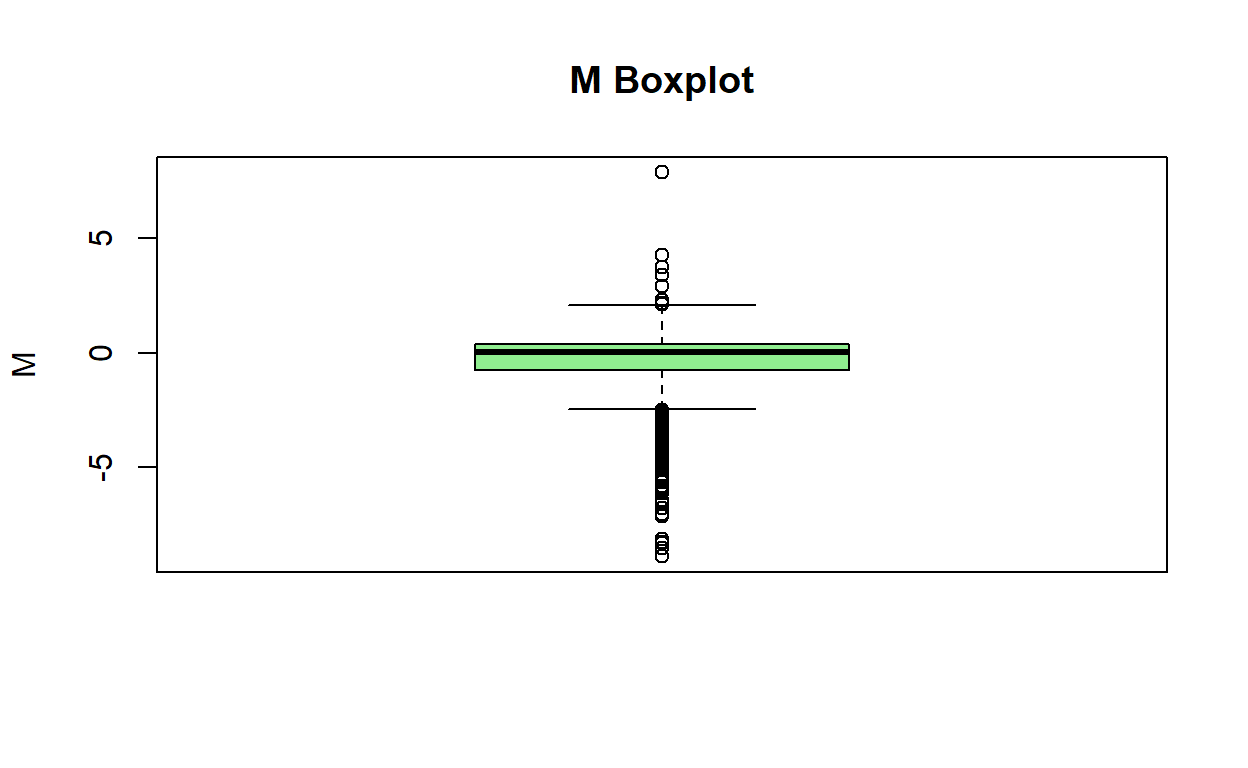
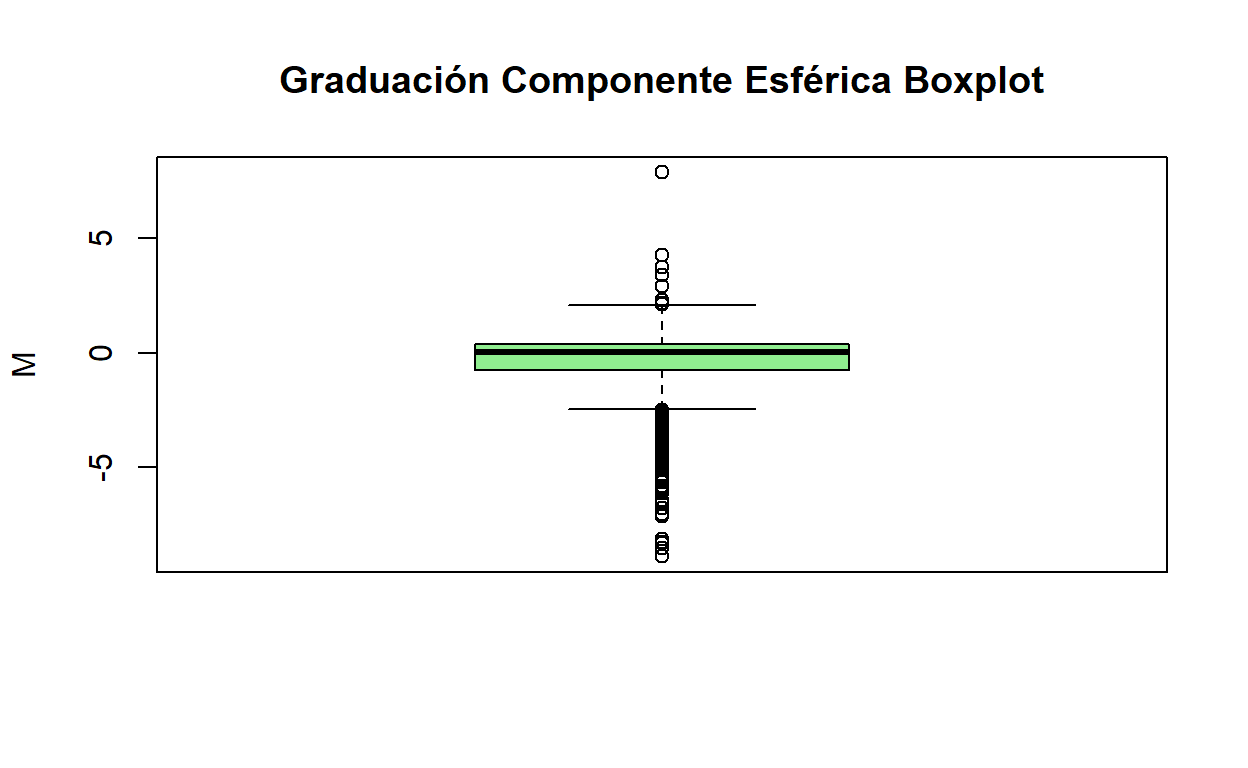
entrega2

Changed region(s): [[0.2188, 0.0625, 0.8438, 0.125]]

diff --git a/_posts/2022-10-07-entrega-ii-preparacion-de-los-datos/entrega-ii-preparacion-de-los-datos.html b/_posts/2022-10-07-entrega-ii-preparacion-de-los-datos/entrega-ii-preparacion-de-los-datos.html
@@ -1526,7 +1526,7 @@ class="uri">https://example.com/spacelysprokets</a>
 <span><span class='va'>data</span> <span class='op'>&lt;-</span> <span class='fu'><a href='https://rdrr.io/r/base/data.frame.html'>data.frame</a></span><span class='op'>(</span><span class='va'>data</span><span class='op'>)</span></span>
 <span><span class='fu'><a href='https://rdrr.io/r/utils/str.html'>str</a></span><span class='op'>(</span><span class='va'>data</span><span class='op'>)</span></span></code></pre>
 </div>
-<pre><code>&#39;data.frame&#39;:   1150 obs. of  18 variables:
+<pre><code>&#39;data.frame&#39;:   1150 obs. of  17 variables:
  $ id           : num  1 2 3 4 5 6 7 8 9 10 ...
  $ clase        : chr  &quot;7ºC&quot; &quot;7ºC&quot; &quot;7ºC&quot; &quot;7ºC&quot; ...
  $ nombre       : chr  &quot;João Pedro&quot; &quot;Francisco F.&quot; &quot;Francisco S.&quot; &quot;José Pereira&quot; ...
@@ -1541,10 +1541,9 @@ class="uri">https://example.com/spacelysprokets</a>
  $ cil          : num  -0.24 -0.42 -0.83 -0.75 -0.17 -0.08 -0.92 -0.58 -0.49 -0.1 ...
  $ eje          : chr  &quot;151.35&quot; &quot;20.8&quot; &quot;167.9&quot; &quot;63.67&quot; ...
  $ orient_astigm: chr  &quot;2&quot; &quot;2&quot; &quot;1&quot; &quot;2&quot; ...
- $ esfera       : num  1 1 2 1 1 2 2 1 1 1 ...
  $ CA           : num  24.5 22.4 23.2 22.9 23.2 ...
  $ RC           : num  8.21 7.52 8.06 7.72 7.97 7.58 7.93 7.41 8.22 7.42 ...
- $ CA_RC_1      : num  2.99 2.99 2.88 2.96 2.92 ...</code></pre>
+ $ CA_RC        : num  2.99 2.99 2.88 2.96 2.92 ...</code></pre>
 </div>
 <h2 id="características-de-las-variables">Características de las
 variables</h2>
@@ -1554,7 +1553,7 @@ variables</h2>
 <span><span class='va'>data</span><span class='op'>$</span><span class='va'>orient_astigm</span><span class='op'>=</span><span class='fu'><a href='https://rdrr.io/r/base/numeric.html'>as.numeric</a></span><span class='op'>(</span><span class='va'>data</span><span class='op'>$</span><span class='va'>orient_astigm</span><span class='op'>)</span></span>
 <span><span class='fu'><a href='https://rdrr.io/r/utils/str.html'>str</a></span><span class='op'>(</span><span class='va'>data</span><span class='op'>)</span></span></code></pre>
 </div>
-<pre><code>&#39;data.frame&#39;:   1150 obs. of  18 variables:
+<pre><code>&#39;data.frame&#39;:   1150 obs. of  17 variables:
  $ id           : num  1 2 3 4 5 6 7 8 9 10 ...
  $ clase        : chr  &quot;7ºC&quot; &quot;7ºC&quot; &quot;7ºC&quot; &quot;7ºC&quot; ...
  $ nombre       : chr  &quot;João Pedro&quot; &quot;Francisco F.&quot; &quot;Francisco S.&quot; &quot;José Pereira&quot; ...
@@ -1569,10 +1568,9 @@ variables</h2>
  $ cil          : num  -0.24 -0.42 -0.83 -0.75 -0.17 -0.08 -0.92 -0.58 -0.49 -0.1 ...
  $ eje          : num  151.3 20.8 167.9 63.7 154.5 ...
  $ orient_astigm: num  2 2 1 2 2 2 1 1 2 1 ...
- $ esfera       : num  1 1 2 1 1 2 2 1 1 1 ...
  $ CA           : num  24.5 22.4 23.2 22.9 23.2 ...
  $ RC           : num  8.21 7.52 8.06 7.72 7.97 7.58 7.93 7.41 8.22 7.42 ...
- $ CA_RC_1      : num  2.99 2.99 2.88 2.96 2.92 ...</code></pre>
+ $ CA_RC        : num  2.99 2.99 2.88 2.96 2.92 ...</code></pre>
 <div class="sourceCode">
 <pre class="sourceCode r"><code class="sourceCode r"><span><span class='fu'><a href='https://rdrr.io/r/base/summary.html'>summary</a></span><span class='op'>(</span><span class='va'>data</span><span class='op'>)</span></span></code></pre>
 </div>
@@ -1587,10 +1585,10 @@ variables</h2>
       sexo          ametropia            edad        grupo_etario  
  Min.   :0.0000   Min.   :-1.0000   Min.   : 5.00   Min.   :1.000  
  1st Qu.:0.0000   1st Qu.:-1.0000   1st Qu.:13.00   1st Qu.:2.000  
- Median :1.0000   Median : 0.0000   Median :18.07   Median :3.000  
- Mean   :0.5183   Mean   :-0.1148   Mean   :16.33   Mean   :2.505  
- 3rd Qu.:1.0000   3rd Qu.: 0.0000   3rd Qu.:18.57   3rd Qu.:3.000  
- Max.   :1.0000   Max.   : 1.0000   Max.   :38.09   Max.   :3.000  
+ Median :1.0000   Median : 0.0000   Median :18.00   Median :3.000  
+ Mean   :0.5183   Mean   :-0.1148   Mean   :16.33   Mean   :2.506  
+ 3rd Qu.:1.0000   3rd Qu.: 0.0000   3rd Qu.:19.00   3rd Qu.:3.000  
+ Max.   :1.0000   Max.   : 1.0000   Max.   :38.00   Max.   :3.000  
                                                                    
        M                 J0                J45           
  Min.   :-8.8750   Min.   :-0.82983   Min.   :-2.054075  
@@ -1608,14 +1606,14 @@ variables</h2>
  3rd Qu.: 0.600   3rd Qu.:-0.2500   3rd Qu.:156.00   3rd Qu.:2.000  
  Max.   : 8.610   Max.   : 0.0000   Max.   :180.00   Max.   :3.000  
                   NA&#39;s   :4         NA&#39;s   :10       NA&#39;s   :3      
-     esfera            CA              RC           CA_RC_1     
- Min.   :1.000   Min.   :20.15   Min.   :6.925   Min.   :2.590  
- 1st Qu.:1.000   1st Qu.:22.88   1st Qu.:7.595   1st Qu.:2.957  
- Median :1.000   Median :23.52   Median :7.785   Median :3.014  
- Mean   :1.286   Mean   :23.63   Mean   :7.799   Mean   :3.031  
- 3rd Qu.:2.000   3rd Qu.:24.23   3rd Qu.:7.971   3rd Qu.:3.081  
- Max.   :2.000   Max.   :27.70   Max.   :9.240   Max.   :3.558  
-                                                                </code></pre>
+       CA              RC            CA_RC      
+ Min.   :20.15   Min.   :6.925   Min.   :2.590  
+ 1st Qu.:22.88   1st Qu.:7.595   1st Qu.:2.957  
+ Median :23.52   Median :7.785   Median :3.014  
+ Mean   :23.63   Mean   :7.799   Mean   :3.031  
+ 3rd Qu.:24.23   3rd Qu.:7.971   3rd Qu.:3.081  
+ Max.   :27.70   Max.   :9.240   Max.   :3.558  
+                                                </code></pre>
 <div class="sourceCode">
 <pre class="sourceCode r"><code class="sourceCode r"><span><span class='co'>##numerical variables with missing values: J0, J45, cil, eje, orient_astigm</span></span></code></pre>
 </div>
@@ -1633,20 +1631,19 @@ variables</h2>
 <pre class="sourceCode r"><code class="sourceCode r"><span><span class='fu'><a href='https://rdrr.io/r/grDevices/boxplot.stats.html'>boxplot.stats</a></span><span class='op'>(</span><span class='va'>data</span><span class='op'>$</span><span class='va'>edad</span><span class='op'>)</span></span></code></pre>
 </div>
 <pre><code>$stats
-[1]  5.00000 13.00000 18.07255 18.57358 26.46954
+[1]  5 13 18 19 28
 
 $n
 [1] 1150
 
 $conf
-[1] 17.81287 18.33224
+[1] 17.72045 18.27955
 
 $out
- [1] 27.35661 28.88433 30.54620 31.23888 33.48392 28.19165 36.49555
- [8] 33.36893 36.35044 34.38193 38.08898 26.99247</code></pre>
+[1] 29 31 31 33 36 33 36 34 38</code></pre>
 <div class="sourceCode">
 <pre class="sourceCode r"><code class="sourceCode r"><span><span class='co'>##Variable M</span></span>
-<span><span class='fu'><a href='https://rdrr.io/r/graphics/boxplot.html'>boxplot</a></span><span class='op'>(</span><span class='va'>data</span><span class='op'>$</span><span class='va'>M</span>, col<span class='op'>=</span><span class='st'>"lightgreen"</span>, main<span class='op'>=</span><span class='st'>"M Boxplot"</span>,</span>
+<span><span class='fu'><a href='https://rdrr.io/r/graphics/boxplot.html'>boxplot</a></span><span class='op'>(</span><span class='va'>data</span><span class='op'>$</span><span class='va'>M</span>, col<span class='op'>=</span><span class='st'>"lightgreen"</span>, main<span class='op'>=</span><span class='st'>"Graduación Componente Esférica Boxplot"</span>,</span>
 <span>        ylab<span class='op'>=</span><span class='st'>"M"</span><span class='op'>)</span></span></code></pre>
 </div>
 <img src="entrega-ii-preparacion-de-los-datos_files/figure-html5/unnamed-chunk-3-2.png" width="624" />
@@ -1689,7 +1686,7 @@ $out
 [139] -3.775000 -3.795000 -2.870000 -2.980000 -3.630000 -2.565000</code></pre>
 <div class="sourceCode">
 <pre class="sourceCode r"><code class="sourceCode r"><span><span class='co'>##Variable J0</span></span>
-<span><span class='fu'><a href='https://rdrr.io/r/graphics/boxplot.html'>boxplot</a></span><span class='op'>(</span><span class='va'>data</span><span class='op'>$</span><span class='va'>J0</span>, col<span class='op'>=</span><span class='st'>"lightpink"</span>, main<span class='op'>=</span><span class='st'>"J0 Boxplot"</span>,</span>
+<span><span class='fu'><a href='https://rdrr.io/r/graphics/boxplot.html'>boxplot</a></span><span class='op'>(</span><span class='va'>data</span><span class='op'>$</span><span class='va'>J0</span>, col<span class='op'>=</span><span class='st'>"lightpink"</span>, main<span class='op'>=</span><span class='st'>"Componente Vectorial Horizontal Boxplot"</span>,</span>
 <span>        ylab<span class='op'>=</span><span class='st'>"J0"</span><span class='op'>)</span></span></code></pre>
 </div>
 <img src="entrega-ii-preparacion-de-los-datos_files/figure-html5/unnamed-chunk-3-3.png" width="624" />
@@ -1721,7 +1718,7 @@ $out
 [73] -0.5168309  0.6799775  0.6830835  0.6745888</code></pre>
 <div class="sourceCode">
 <pre class="sourceCode r"><code class="sourceCode r"><span><span class='co'>##Variable J45</span></span>
-<span><span class='fu'><a href='https://rdrr.io/r/graphics/boxplot.html'>boxplot</a></span><span class='op'>(</span><span class='va'>data</span><span class='op'>$</span><span class='va'>J45</span>, col<span class='op'>=</span><span class='st'>"violet"</span>, main<span class='op'>=</span><span class='st'>"J45 Boxplot"</span>,</span>
+<span><span class='fu'><a href='https://rdrr.io/r/graphics/boxplot.html'>boxplot</a></span><span class='op'>(</span><span class='va'>data</span><span class='op'>$</span><span class='va'>J45</span>, col<span class='op'>=</span><span class='st'>"violet"</span>, main<span class='op'>=</span><span class='st'>"Componente Vectorial Oblicuo Boxplot"</span>,</span>
 <span>        ylab<span class='op'>=</span><span class='st'>"J45"</span><span class='op'>)</span></span></code></pre>
 </div>
 <img src="entrega-ii-preparacion-de-los-datos_files/figure-html5/unnamed-chunk-3-4.png" width="624" />
@@ -1851,7 +1848,7 @@ $out
 numeric(0)</code></pre>
 <div class="sourceCode">
 <pre class="sourceCode r"><code class="sourceCode r"><span><span class='co'>##Variable CA</span></span>
-<span><span class='fu'><a href='https://rdrr.io/r/graphics/boxplot.html'>boxplot</a></span><span class='op'>(</span><span class='va'>data</span><span class='op'>$</span><span class='va'>CA</span>, col<span class='op'>=</span><span class='st'>"#CBF4A9"</span>, main<span class='op'>=</span><span class='st'>"Longitud del Ojo Boxplot"</span>,</span>
+<span><span class='fu'><a href='https://rdrr.io/r/graphics/boxplot.html'>boxplot</a></span><span class='op'>(</span><span class='va'>data</span><span class='op'>$</span><span class='va'>CA</span>, col<span class='op'>=</span><span class='st'>"#CBF4A9"</span>, main<span class='op'>=</span><span class='st'>"Longitud Axial del Ojo Boxplot"</span>,</span>
 <span>        ylab<span class='op'>=</span><span class='st'>"CA"</span><span class='op'>)</span></span></code></pre>
 </div>
 <img src="entrega-ii-preparacion-de-los-datos_files/figure-html5/unnamed-chunk-3-8.png" width="624" />
@@ -1893,13 +1890,13 @@ $out
  [1] 9.235 8.575 8.840 8.645 8.585 8.600 8.550 8.680 8.630 8.620 8.785
 [12] 9.240 6.925 8.680 9.155</code></pre>
 <div class="sourceCode">
-<pre class="sourceCode r"><code class="sourceCode r"><span><span class='co'>##Variable CA_RC_1</span></span>
-<span><span class='fu'><a href='https://rdrr.io/r/graphics/boxplot.html'>boxplot</a></span><span class='op'>(</span><span class='va'>data</span><span class='op'>$</span><span class='va'>CA_RC_1</span>, col<span class='op'>=</span><span class='st'>"#F6B7B7"</span>, main<span class='op'>=</span><span class='st'>"CA_RC_1 Boxplot"</span>,</span>
-<span>        ylab<span class='op'>=</span><span class='st'>"CA_RC_1"</span><span class='op'>)</span></span></code></pre>
+<pre class="sourceCode r"><code class="sourceCode r"><span><span class='co'>##Variable CA_RC</span></span>
+<span><span class='fu'><a href='https://rdrr.io/r/graphics/boxplot.html'>boxplot</a></span><span class='op'>(</span><span class='va'>data</span><span class='op'>$</span><span class='va'>CA_RC</span>, col<span class='op'>=</span><span class='st'>"#F6B7B7"</span>, main<span class='op'>=</span><span class='st'>"Predictor Defecto Refractivo Boxplot"</span>,</span>
+<span>        ylab<span class='op'>=</span><span class='st'>"CA_RC"</span><span class='op'>)</span></span></code></pre>
 </div>
 <img src="entrega-ii-preparacion-de-los-datos_files/figure-html5/unnamed-chunk-3-10.png" width="624" />
 <div class="sourceCode">
-<pre class="sourceCode r"><code class="sourceCode r"><span><span class='fu'><a href='https://rdrr.io/r/grDevices/boxplot.stats.html'>boxplot.stats</a></span><span class='op'>(</span><span class='va'>data</span><span class='op'>$</span><span class='va'>CA_RC_1</span><span class='op'>)</span></span></code></pre>
+<pre class="sourceCode r"><code class="sourceCode r"><span><span class='fu'><a href='https://rdrr.io/r/grDevices/boxplot.stats.html'>boxplot.stats</a></span><span class='op'>(</span><span class='va'>data</span><span class='op'>$</span><span class='va'>CA_RC</span><span class='op'>)</span></span></code></pre>
 </div>
 <pre><code>$stats
 [1] 2.774036 2.957317 3.013626 3.081188 3.264911

diff --git a/_site/posts/2022-10-07-entrega-ii-preparacion-de-los-datos/index.html b/_site/posts/2022-10-07-entrega-ii-preparacion-de-los-datos/index.html
@@ -2146,7 +2146,7 @@ class="uri">https://example.com/spacelysprokets</a>
 <span><span class='va'>data</span> <span class='op'>&lt;-</span> <span class='fu'><a href='https://rdrr.io/r/base/data.frame.html'>data.frame</a></span><span class='op'>(</span><span class='va'>data</span><span class='op'>)</span></span>
 <span><span class='fu'><a href='https://rdrr.io/r/utils/str.html'>str</a></span><span class='op'>(</span><span class='va'>data</span><span class='op'>)</span></span></code></pre>
 </div>
-<pre><code>&#39;data.frame&#39;:   1150 obs. of  18 variables:
+<pre><code>&#39;data.frame&#39;:   1150 obs. of  17 variables:
  $ id           : num  1 2 3 4 5 6 7 8 9 10 ...
  $ clase        : chr  &quot;7ºC&quot; &quot;7ºC&quot; &quot;7ºC&quot; &quot;7ºC&quot; ...
  $ nombre       : chr  &quot;João Pedro&quot; &quot;Francisco F.&quot; &quot;Francisco S.&quot; &quot;José Pereira&quot; ...
@@ -2161,10 +2161,9 @@ class="uri">https://example.com/spacelysprokets</a>
  $ cil          : num  -0.24 -0.42 -0.83 -0.75 -0.17 -0.08 -0.92 -0.58 -0.49 -0.1 ...
  $ eje          : chr  &quot;151.35&quot; &quot;20.8&quot; &quot;167.9&quot; &quot;63.67&quot; ...
  $ orient_astigm: chr  &quot;2&quot; &quot;2&quot; &quot;1&quot; &quot;2&quot; ...
- $ esfera       : num  1 1 2 1 1 2 2 1 1 1 ...
  $ CA           : num  24.5 22.4 23.2 22.9 23.2 ...
  $ RC           : num  8.21 7.52 8.06 7.72 7.97 7.58 7.93 7.41 8.22 7.42 ...
- $ CA_RC_1      : num  2.99 2.99 2.88 2.96 2.92 ...</code></pre>
+ $ CA_RC        : num  2.99 2.99 2.88 2.96 2.92 ...</code></pre>
 </div>
 <h2 id="características-de-las-variables">Características de las
 variables</h2>
@@ -2174,7 +2173,7 @@ variables</h2>
 <span><span class='va'>data</span><span class='op'>$</span><span class='va'>orient_astigm</span><span class='op'>=</span><span class='fu'><a href='https://rdrr.io/r/base/numeric.html'>as.numeric</a></span><span class='op'>(</span><span class='va'>data</span><span class='op'>$</span><span class='va'>orient_astigm</span><span class='op'>)</span></span>
 <span><span class='fu'><a href='https://rdrr.io/r/utils/str.html'>str</a></span><span class='op'>(</span><span class='va'>data</span><span class='op'>)</span></span></code></pre>
 </div>
-<pre><code>&#39;data.frame&#39;:   1150 obs. of  18 variables:
+<pre><code>&#39;data.frame&#39;:   1150 obs. of  17 variables:
  $ id           : num  1 2 3 4 5 6 7 8 9 10 ...
  $ clase        : chr  &quot;7ºC&quot; &quot;7ºC&quot; &quot;7ºC&quot; &quot;7ºC&quot; ...
  $ nombre       : chr  &quot;João Pedro&quot; &quot;Francisco F.&quot; &quot;Francisco S.&quot; &quot;José Pereira&quot; ...
@@ -2189,10 +2188,9 @@ variables</h2>
  $ cil          : num  -0.24 -0.42 -0.83 -0.75 -0.17 -0.08 -0.92 -0.58 -0.49 -0.1 ...
  $ eje          : num  151.3 20.8 167.9 63.7 154.5 ...
  $ orient_astigm: num  2 2 1 2 2 2 1 1 2 1 ...
- $ esfera       : num  1 1 2 1 1 2 2 1 1 1 ...
  $ CA           : num  24.5 22.4 23.2 22.9 23.2 ...
  $ RC           : num  8.21 7.52 8.06 7.72 7.97 7.58 7.93 7.41 8.22 7.42 ...
- $ CA_RC_1      : num  2.99 2.99 2.88 2.96 2.92 ...</code></pre>
+ $ CA_RC        : num  2.99 2.99 2.88 2.96 2.92 ...</code></pre>
 <div class="sourceCode">
 <pre class="sourceCode r"><code class="sourceCode r"><span><span class='fu'><a href='https://rdrr.io/r/base/summary.html'>summary</a></span><span class='op'>(</span><span class='va'>data</span><span class='op'>)</span></span></code></pre>
 </div>
@@ -2207,10 +2205,10 @@ variables</h2>
       sexo          ametropia            edad        grupo_etario  
  Min.   :0.0000   Min.   :-1.0000   Min.   : 5.00   Min.   :1.000  
  1st Qu.:0.0000   1st Qu.:-1.0000   1st Qu.:13.00   1st Qu.:2.000  
- Median :1.0000   Median : 0.0000   Median :18.07   Median :3.000  
- Mean   :0.5183   Mean   :-0.1148   Mean   :16.33   Mean   :2.505  
- 3rd Qu.:1.0000   3rd Qu.: 0.0000   3rd Qu.:18.57   3rd Qu.:3.000  
- Max.   :1.0000   Max.   : 1.0000   Max.   :38.09   Max.   :3.000  
+ Median :1.0000   Median : 0.0000   Median :18.00   Median :3.000  
+ Mean   :0.5183   Mean   :-0.1148   Mean   :16.33   Mean   :2.506  
+ 3rd Qu.:1.0000   3rd Qu.: 0.0000   3rd Qu.:19.00   3rd Qu.:3.000  
+ Max.   :1.0000   Max.   : 1.0000   Max.   :38.00   Max.   :3.000  
                                                                    
        M                 J0                J45           
  Min.   :-8.8750   Min.   :-0.82983   Min.   :-2.054075  
@@ -2228,14 +2226,14 @@ variables</h2>
  3rd Qu.: 0.600   3rd Qu.:-0.2500   3rd Qu.:156.00   3rd Qu.:2.000  
  Max.   : 8.610   Max.   : 0.0000   Max.   :180.00   Max.   :3.000  
                   NA&#39;s   :4         NA&#39;s   :10       NA&#39;s   :3      
-     esfera            CA              RC           CA_RC_1     
- Min.   :1.000   Min.   :20.15   Min.   :6.925   Min.   :2.590  
- 1st Qu.:1.000   1st Qu.:22.88   1st Qu.:7.595   1st Qu.:2.957  
- Median :1.000   Median :23.52   Median :7.785   Median :3.014  
- Mean   :1.286   Mean   :23.63   Mean   :7.799   Mean   :3.031  
- 3rd Qu.:2.000   3rd Qu.:24.23   3rd Qu.:7.971   3rd Qu.:3.081  
- Max.   :2.000   Max.   :27.70   Max.   :9.240   Max.   :3.558  
-                                                                </code></pre>
+       CA              RC            CA_RC      
+ Min.   :20.15   Min.   :6.925   Min.   :2.590  
+ 1st Qu.:22.88   1st Qu.:7.595   1st Qu.:2.957  
+ Median :23.52   Median :7.785   Median :3.014  
+ Mean   :23.63   Mean   :7.799   Mean   :3.031  
+ 3rd Qu.:24.23   3rd Qu.:7.971   3rd Qu.:3.081  
+ Max.   :27.70   Max.   :9.240   Max.   :3.558  
+                                                </code></pre>
 <div class="sourceCode">
 <pre class="sourceCode r"><code class="sourceCode r"><span><span class='co'>##numerical variables with missing values: J0, J45, cil, eje, orient_astigm</span></span></code></pre>
 </div>
@@ -2253,20 +2251,19 @@ variables</h2>
 <pre class="sourceCode r"><code class="sourceCode r"><span><span class='fu'><a href='https://rdrr.io/r/grDevices/boxplot.stats.html'>boxplot.stats</a></span><span class='op'>(</span><span class='va'>data</span><span class='op'>$</span><span class='va'>edad</span><span class='op'>)</span></span></code></pre>
 </div>
 <pre><code>$stats
-[1]  5.00000 13.00000 18.07255 18.57358 26.46954
+[1]  5 13 18 19 28
 
 $n
 [1] 1150
 
 $conf
-[1] 17.81287 18.33224
+[1] 17.72045 18.27955
 
 $out
- [1] 27.35661 28.88433 30.54620 31.23888 33.48392 28.19165 36.49555
- [8] 33.36893 36.35044 34.38193 38.08898 26.99247</code></pre>
+[1] 29 31 31 33 36 33 36 34 38</code></pre>
 <div class="sourceCode">
 <pre class="sourceCode r"><code class="sourceCode r"><span><span class='co'>##Variable M</span></span>
-<span><span class='fu'><a href='https://rdrr.io/r/graphics/boxplot.html'>boxplot</a></span><span class='op'>(</span><span class='va'>data</span><span class='op'>$</span><span class='va'>M</span>, col<span class='op'>=</span><span class='st'>"lightgreen"</span>, main<span class='op'>=</span><span class='st'>"M Boxplot"</span>,</span>
+<span><span class='fu'><a href='https://rdrr.io/r/graphics/boxplot.html'>boxplot</a></span><span class='op'>(</span><span class='va'>data</span><span class='op'>$</span><span class='va'>M</span>, col<span class='op'>=</span><span class='st'>"lightgreen"</span>, main<span class='op'>=</span><span class='st'>"Graduación Componente Esférica Boxplot"</span>,</span>
 <span>        ylab<span class='op'>=</span><span class='st'>"M"</span><span class='op'>)</span></span></code></pre>
 </div>
 <img src="entrega-ii-preparacion-de-los-datos_files/figure-html5/unnamed-chunk-3-2.png" width="624" />
@@ -2309,7 +2306,7 @@ $out
 [139] -3.775000 -3.795000 -2.870000 -2.980000 -3.630000 -2.565000</code></pre>
 <div class="sourceCode">
 <pre class="sourceCode r"><code class="sourceCode r"><span><span class='co'>##Variable J0</span></span>
-<span><span class='fu'><a href='https://rdrr.io/r/graphics/boxplot.html'>boxplot</a></span><span class='op'>(</span><span class='va'>data</span><span class='op'>$</span><span class='va'>J0</span>, col<span class='op'>=</span><span class='st'>"lightpink"</span>, main<span class='op'>=</span><span class='st'>"J0 Boxplot"</span>,</span>
+<span><span class='fu'><a href='https://rdrr.io/r/graphics/boxplot.html'>boxplot</a></span><span class='op'>(</span><span class='va'>data</span><span class='op'>$</span><span class='va'>J0</span>, col<span class='op'>=</span><span class='st'>"lightpink"</span>, main<span class='op'>=</span><span class='st'>"Componente Vectorial Horizontal Boxplot"</span>,</span>
 <span>        ylab<span class='op'>=</span><span class='st'>"J0"</span><span class='op'>)</span></span></code></pre>
 </div>
 <img src="entrega-ii-preparacion-de-los-datos_files/figure-html5/unnamed-chunk-3-3.png" width="624" />
@@ -2341,7 +2338,7 @@ $out
 [73] -0.5168309  0.6799775  0.6830835  0.6745888</code></pre>
 <div class="sourceCode">
 <pre class="sourceCode r"><code class="sourceCode r"><span><span class='co'>##Variable J45</span></span>
-<span><span class='fu'><a href='https://rdrr.io/r/graphics/boxplot.html'>boxplot</a></span><span class='op'>(</span><span class='va'>data</span><span class='op'>$</span><span class='va'>J45</span>, col<span class='op'>=</span><span class='st'>"violet"</span>, main<span class='op'>=</span><span class='st'>"J45 Boxplot"</span>,</span>
+<span><span class='fu'><a href='https://rdrr.io/r/graphics/boxplot.html'>boxplot</a></span><span class='op'>(</span><span class='va'>data</span><span class='op'>$</span><span class='va'>J45</span>, col<span class='op'>=</span><span class='st'>"violet"</span>, main<span class='op'>=</span><span class='st'>"Componente Vectorial Oblicuo Boxplot"</span>,</span>
 <span>        ylab<span class='op'>=</span><span class='st'>"J45"</span><span class='op'>)</span></span></code></pre>
 </div>
 <img src="entrega-ii-preparacion-de-los-datos_files/figure-html5/unnamed-chunk-3-4.png" width="624" />
@@ -2471,7 +2468,7 @@ $out
 numeric(0)</code></pre>
 <div class="sourceCode">
 <pre class="sourceCode r"><code class="sourceCode r"><span><span class='co'>##Variable CA</span></span>
-<span><span class='fu'><a href='https://rdrr.io/r/graphics/boxplot.html'>boxplot</a></span><span class='op'>(</span><span class='va'>data</span><span class='op'>$</span><span class='va'>CA</span>, col<span class='op'>=</span><span class='st'>"#CBF4A9"</span>, main<span class='op'>=</span><span class='st'>"Longitud del Ojo Boxplot"</span>,</span>
+<span><span class='fu'><a href='https://rdrr.io/r/graphics/boxplot.html'>boxplot</a></span><span class='op'>(</span><span class='va'>data</span><span class='op'>$</span><span class='va'>CA</span>, col<span class='op'>=</span><span class='st'>"#CBF4A9"</span>, main<span class='op'>=</span><span class='st'>"Longitud Axial del Ojo Boxplot"</span>,</span>
 <span>        ylab<span class='op'>=</span><span class='st'>"CA"</span><span class='op'>)</span></span></code></pre>
 </div>
 <img src="entrega-ii-preparacion-de-los-datos_files/figure-html5/unnamed-chunk-3-8.png" width="624" />
@@ -2513,13 +2510,13 @@ $out
  [1] 9.235 8.575 8.840 8.645 8.585 8.600 8.550 8.680 8.630 8.620 8.785
 [12] 9.240 6.925 8.680 9.155</code></pre>
 <div class="sourceCode">
-<pre class="sourceCode r"><code class="sourceCode r"><span><span class='co'>##Variable CA_RC_1</span></span>
-<span><span class='fu'><a href='https://rdrr.io/r/graphics/boxplot.html'>boxplot</a></span><span class='op'>(</span><span class='va'>data</span><span class='op'>$</span><span class='va'>CA_RC_1</span>, col<span class='op'>=</span><span class='st'>"#F6B7B7"</span>, main<span class='op'>=</span><span class='st'>"CA_RC_1 Boxplot"</span>,</span>
-<span>        ylab<span class='op'>=</span><span class='st'>"CA_RC_1"</span><span class='op'>)</span></span></code></pre>
+<pre class="sourceCode r"><code class="sourceCode r"><span><span class='co'>##Variable CA_RC</span></span>
+<span><span class='fu'><a href='https://rdrr.io/r/graphics/boxplot.html'>boxplot</a></span><span class='op'>(</span><span class='va'>data</span><span class='op'>$</span><span class='va'>CA_RC</span>, col<span class='op'>=</span><span class='st'>"#F6B7B7"</span>, main<span class='op'>=</span><span class='st'>"Predictor Defecto Refractivo Boxplot"</span>,</span>
+<span>        ylab<span class='op'>=</span><span class='st'>"CA_RC"</span><span class='op'>)</span></span></code></pre>
 </div>
 <img src="entrega-ii-preparacion-de-los-datos_files/figure-html5/unnamed-chunk-3-10.png" width="624" />
 <div class="sourceCode">
-<pre class="sourceCode r"><code class="sourceCode r"><span><span class='fu'><a href='https://rdrr.io/r/grDevices/boxplot.stats.html'>boxplot.stats</a></span><span class='op'>(</span><span class='va'>data</span><span class='op'>$</span><span class='va'>CA_RC_1</span><span class='op'>)</span></span></code></pre>
+<pre class="sourceCode r"><code class="sourceCode r"><span><span class='fu'><a href='https://rdrr.io/r/grDevices/boxplot.stats.html'>boxplot.stats</a></span><span class='op'>(</span><span class='va'>data</span><span class='op'>$</span><span class='va'>CA_RC</span><span class='op'>)</span></span></code></pre>
 </div>
 <pre><code>$stats
 [1] 2.774036 2.957317 3.013626 3.081188 3.264911
